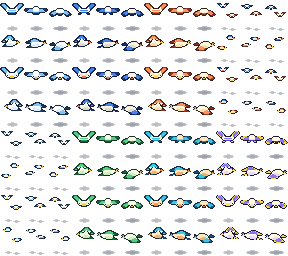
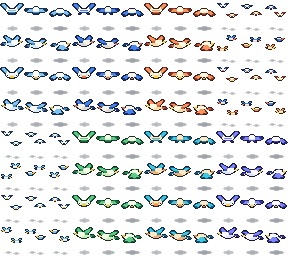
fix(flagship): capture emerald-crown opening animatic and redraw side-view skybird sprites (#3039)
- Redraw DIR_RIGHT/DIR_LEFT skybird frames in build_skybird_charset.py as 3/4 top-down RM2000 birds in flight with rounded head/breast, sweeping wings, and single angled tail
- Use symmetrical down-facing soar pose for indoor lab skybirds and add 2-tile custom patrol routes for outdoor skybirds in emeraldCrown.ts
- Wait for title intro sequence completion in bootFlagshipInPlayer and enforce opening animatic readiness in waitForOpeningReady

diff --git a/src/project/flagship/dawningSkybirdsAsset.ts b/src/project/flagship/dawningSkybirdsAsset.ts
@@ -4,7 +4,7 @@ import type { UploadedAsset } from "@/project/types";
 
 export const DAWNING_SKYBIRDS_CHARSET_ID = "oprn-charset-dawning-skybirds" as const;
 
[2 lines of base64/hex data omitted]
 
 export const DAWNING_SKYBIRDS_UPLOADED_ASSET: UploadedAsset = {
   id: DAWNING_SKYBIRDS_CHARSET_ID,

diff --git a/src/project/flagship/emeraldCrown.ts b/src/project/flagship/emeraldCrown.ts
@@ -4,7 +4,7 @@ import { createMonsterExpedition } from "@/project/examples/monsterExpedition";
 import mapTemplates from "@/project/examples/monsterExpedition/mapTemplates.json";
 import { composeTown, type TownSketch, type TownTemplate } from "@/project/examples/monsterExpedition/townLayouts";
 import { deserialize, serialize } from "@/project/io";
-import type { Command, GameEvent, GameMap, Project } from "@/project/types";
+import type { Command, EventPageMovement, GameEvent, GameMap, Project } from "@/project/types";
 import { FLAGSHIP_BEAT_MANIFESTS } from "./beats";
 import { DAWNING_SKYBIRDS_CHARSET_ID } from "./dawningSkybirdsAsset";
 import type { FlagshipDemoBuildResult } from "./types";
@@ -133,6 +133,7 @@ function createSkybirdEvent(
   speaker: string,
   body: string,
   priority: "below" | "same" | "above" = "same",
+  patrol: boolean = false,
 ): GameEvent {
   const graphic = {
     sprite: { type: "bundled" as const, id: DAWNING_SKYBIRDS_CHARSET_ID },
@@ -140,6 +141,27 @@ function createSkybirdEvent(
     pattern: charsetFrameIndex({ characterIndex, direction, pattern: 1 }),
     transparent: false,
   };
+  const oppositeDir: Record<"up" | "right" | "down" | "left", "up" | "right" | "down" | "left"> = {
+    up: "down",
+    down: "up",
+    left: "right",
+    right: "left",
+  };
+  const movement: EventPageMovement = patrol
+    ? {
+        type: "custom",
+        speed: 3,
+        frequency: 5,
+        route: {
+          repeat: true,
+          skippable: true,
+          moves: [
+            { kind: "move", dir: direction },
+            { kind: "move", dir: oppositeDir[direction] },
+          ],
+        },
+      }
+    : { type: "fixed", speed: 3, frequency: 4 };
   const commands: Command[] = [{ kind: "text", speaker, body }];
   return {
     id,
@@ -154,7 +176,7 @@ function createSkybirdEvent(
         name: "여명의 날개",
         conditions: [],
         graphic,
-        movement: { type: "fixed", speed: 3, frequency: 4 },
+        movement,
         priority,
         overlapForbidden: priority === "same",
         trigger: { kind: "action" },
@@ -256,10 +278,10 @@ function installInteriorStairsAndLab2F(project: Project): void {
       createSkybirdEvent(
         "ev_lab_2f_skybird",
         "관측실 아스트라별새",
-        7,
+        6,
         4,
         7,
-        "left",
+        "down",
         "아스트라별새",
         "끼르륵—! (2층 천문 관측실 창가에서 아스트라별새가 별빛 날개를 반짝이며 다우닝 시티의 하늘을 살피고 있다.)",
       ),
@@ -288,7 +310,7 @@ function installInteriorStairsAndLab2F(project: Project): void {
       4,
       6,
       2,
-      "right",
+      "down",
       "별빛방울새",
       "포르릉! (천문박사님의 관측기를 돕는 별빛방울새가 2층 계단 쪽을 가리키며 경쾌하게 지저귄다.)",
     ),
@@ -675,6 +697,8 @@ export function createEmeraldCrownFlagshipDemo(): FlagshipDemoBuildResult {
       "left",
       "여명갈매기",
       "끼룩— 끼르륵! (여명갈매기가 다우닝 시티 광장 연못 위에서 푸른 날개를 활짝 펴고 바람을 탄다.)",
+      "same",
+      true,
     ),
     createSkybirdEvent(
       "ev_dawning_skybird_swallow",
@@ -685,6 +709,8 @@ export function createEmeraldCrownFlagshipDemo(): FlagshipDemoBuildResult {
       "right",
       "창공제비",
       "지지배배—! (창공제비가 우리 집과 오르비스 천문 연구소 지붕 사이를 날렵하게 스쳐 날아간다.)",
+      "same",
+      true,
     ),
     createSkybirdEvent(
       "ev_dawning_skybird_flock",
@@ -696,6 +722,7 @@ export function createEmeraldCrownFlagshipDemo(): FlagshipDemoBuildResult {
       "여명의 새떼",
       "푸드득—! (새벽빛을 머금은 제비 편대가 다우닝 시티 상공을 가로지르며 1번 도로 쪽을 가리킨다.)",
       "above",
+      true,
     ),
   );
 
@@ -711,6 +738,8 @@ export function createEmeraldCrownFlagshipDemo(): FlagshipDemoBuildResult {
         "left",
         "별빛방울새",
         "뾰로롱—! (별빛방울새가 1번 도로 풀숲 위를 맴돌며 야생 몬스터의 기척을 알려 준다.)",
+        "same",
+        true,
       ),
       createSkybirdEvent(
         "ev_meadow_skybird_kingfisher",
@@ -721,6 +750,8 @@ export function createEmeraldCrownFlagshipDemo(): FlagshipDemoBuildResult {
         "right",
         "황혼물총새",
         "키르르—! (청록빛 날개의 황혼물총새가 해안 바람을 타고 낮게 활공한다.)",
+        "same",
+        true,
       ),
     );
   }

diff --git a/scripts/content/monsters/build_skybird_charset.py b/scripts/content/monsters/build_skybird_charset.py
@@ -118,50 +118,50 @@ def draw_single_bird_cell(
     if direction in (DIR_RIGHT, DIR_LEFT):
         flip = direction == DIR_LEFT
         # Side-view flying bird (facing right by default, flipped for left)
-        if pattern == 0:  # Wings UP
+        if pattern == 0:  # Wings HIGH UP (3/4 top-down V-wings raised over back)
             grid = [
-                ".......OTTTO............",
-                "......OTSSSTO...........",
-                ".....OTSSSSSTO..........",
-                "....OTSSSWSSSTO.........",
-                "...OO...OWWO.OO........." if not crest else "...OO...OWWO..OOO.......",
-                "..OTTO.OWWWWOOOOOO......" if not crest else "..OTTO.OWWWWOOSSOO......",
-                ".OTSSOOOWWWWWWWWEBO.....",
-                "..OOOOOWWWWWWWWWBBBO....",
-                ".....OWWmmmmWWWWOO......",
-                "....OOmmmmmmmmWOO.......",
-                "...OTTDmmmmmmOO........." if not forked_tail else "..OTTTOmmmmmmOO.........",
-                "..OTTTTOOOOOO..........." if not forked_tail else ".OTTO.OTTOOOO...........",
+                "....OOO.........OOO.....",
+                "...OTSTO.......OTSTO....",
+                "...OTSSSTO....OTSSSTO...",
+                "....OTSSSSTO.OTSSSSTO...",
+                ".....OSSSSSTOOSSSSTO...." if not crest else ".....OSSSSSTOOSSSSTOO...",
+                "......OSSSSSWWWWWWOO....",
+                ".......ODDDWWWWWWWEBBBO.",
+                "..OOOO.ODDDWWWWWWWWBBO..",
+                ".OTDDDmmmmmmWWWWWWOO....",
+                "OTTTDDmmmmmmmmWWWOO....." if not forked_tail else "OTTO.OOmmmmmmmWWWOO.....",
+                ".OOOO..OOmmmmmmOO.......",
+                ".........OOOOOO.........",
             ]
-        elif pattern == 1:  # GLIDE (level sweeping wings)
+        elif pattern == 1:  # MID-FLAP / SOAR (3/4 outspread gull wings + protruding beak)
             grid = [
                 "........................",
-                "........OOOOO...........",
-                "......OOTSSSTOO.........",
-                "....OOTSSSSSSSTOO...OO..",
-                "..OOTTTSSSSSSSSTTOOOSSO." if crest else "..OOTTTSSSSSSSSTTOOOOO..",
-                ".OTTTTSSWWWWWWWWWWWEBO..",
-                "..OOOOOWWWWWWWWWWWWBBBO.",
-                "......OWWmmmmmmWWWOO....",
-                ".....OOmmmmmmmmWWOO.....",
-                "...OOTTDmmmmmmOOO......." if not forked_tail else "..OOTTTOmmmmmmOOO.......",
-                "..OTTTTTOOOOOO.........." if not forked_tail else ".OTTO..OTTOOOO..........",
-                "........................",
+                "..OOOO...........OOOO...",
+                ".OTTTTO.........OTTTTO..",
+                ".OTSSSSTO......OTSSSSTO.",
+                "..OTSSSSSTOOOOOTSSSSTO.." if not crest else "..OTSSSSSTOOOOTSSSSTOO..",
+                "...OOSSSSSWWWWWWWSSOO...",
+                ".....OODDDDWWWWWWWEBBBO.",
+                "..OOOO.ODDDWWWWWWWWBBO..",
+                ".OTDDDmmmmmmWWWWWWOO....",
+                "OTTTDDmmmmmmmmWWWOO....." if not forked_tail else "OTTO.OOmmmmmmmWWWOO.....",
+                ".OOOO..OOmmmmmmOO.......",
+                ".........OOOOOO.........",
             ]
-        else:  # Wings DOWN
+        else:  # Wings DOWN (sweeping down below belly)
             grid = [
                 "........................",
                 "........................",
-                "...........OOOOOO.......",
-                "....OO...OOWWWWWWO..OO..",
-                "..OOTTO.OWWWWWWWWWOOSSO." if crest else "..OOTTO.OWWWWWWWWWOOOO..",
-                ".OTTTTTOWWWWWWWWWWWEBO..",
-                "..OOOOOOWWmmmmWWWWWBBBO.",
-                "......OWSSmmmmmmWWOO....",
-                ".....OTSSSSSmmmmOO......",
-                "....OTSSSSSSSTOO........",
-                "...OTTTSSSSSTTO.........",
-                "....OOOTTTTTOO..........",
+                "............OOOOOO......" if not crest else "...........OOTSSOOO.....",
+                "..........OOWWWWWWO.....",
+                "....OOOO.OWWWWWWWWEBBBO.",
+                "...OTDDDOOWWWWWWWWWBBO..",
+                "..OTTTDDDmmOSSSSWWWWOO.." if not forked_tail else "..OTTO.ODmmOSSSSWWWWOO..",
+                "...OOOO..mOSSSSSSWWOO...",
+                ".........OTSSSSSSSTO....",
+                "........OTSSSSSSSSSTO...",
+                "........OTTTTSSSTTTTO...",
+                ".........OOOOTTTTOOO....",
             ]
         paint_from_grid(cell, 0, 5 + bob_y, grid, palette, flip_x=flip)
 
@@ -281,25 +281,28 @@ def draw_flock_pair_cell(
     def mini_bird_side(pose: int) -> list[str]:
         if pose == 0:
             return [
-                "..OTTO.....",
-                ".OTSSSO....",
-                "OOWWWWEBO..",
-                ".OmmmmWBB..",
-                "..OTTOO....",
+                ".OTO...OTO.",
+                ".OSSO.OSSO.",
+                "..OSSSSSO..",
+                "OTOWWWWEBBO",
+                ".OOmmmmBBO.",
+                "...OOOO....",
             ]
         if pose == 1:
             return [
                 "...........",
-                ".OOTSSOO...",
-                "OTSWWWWEBO.",
-                ".OOmmmmBB..",
-                "...OOOO....",
+                "OTO.....OTO",
+                "OSSO...OSSO",
+                ".OOSSSSSOO.",
+                "OTOWWWWEBBO",
+                ".OOmmmmOO..",
             ]
         return [
-            "....OOOO...",
-            ".OOWWWWEBO.",
-            "OTSSSSmBB..",
-            ".OTTTOO....",
+            "...OOOO....",
+            "OTOWWWWEBBO",
+            ".OOSSSSBBO.",
+            "..OTSSSTO..",
+            "...OOOOO...",
             "...........",
         ]
 
@@ -404,13 +407,13 @@ def build_sheet() -> Image.Image:
 
     # Slot 7: 아스트라별새 (Astra Starbird)
     pal_astra_bird = make_gull_palette(
-        outline=(28, 24, 58, 255),
-        body_hi=(255, 250, 220, 255),
-        body_mid=(230, 216, 252, 255),
-        wing_sky=(132, 118, 246, 255),
-        wing_deep=(84, 68, 196, 255),
-        tip_dark=(252, 212, 72, 255),
-        beak=(255, 224, 82, 255),
+        outline=(26, 22, 56, 255),
+        body_hi=(248, 250, 255, 255),
+        body_mid=(222, 226, 250, 255),
+        wing_sky=(124, 134, 252, 255),
+        wing_deep=(72, 78, 204, 255),
+        tip_dark=(44, 48, 136, 255),
+        beak=(255, 214, 68, 255),
     )
 
     slot_configs = [
